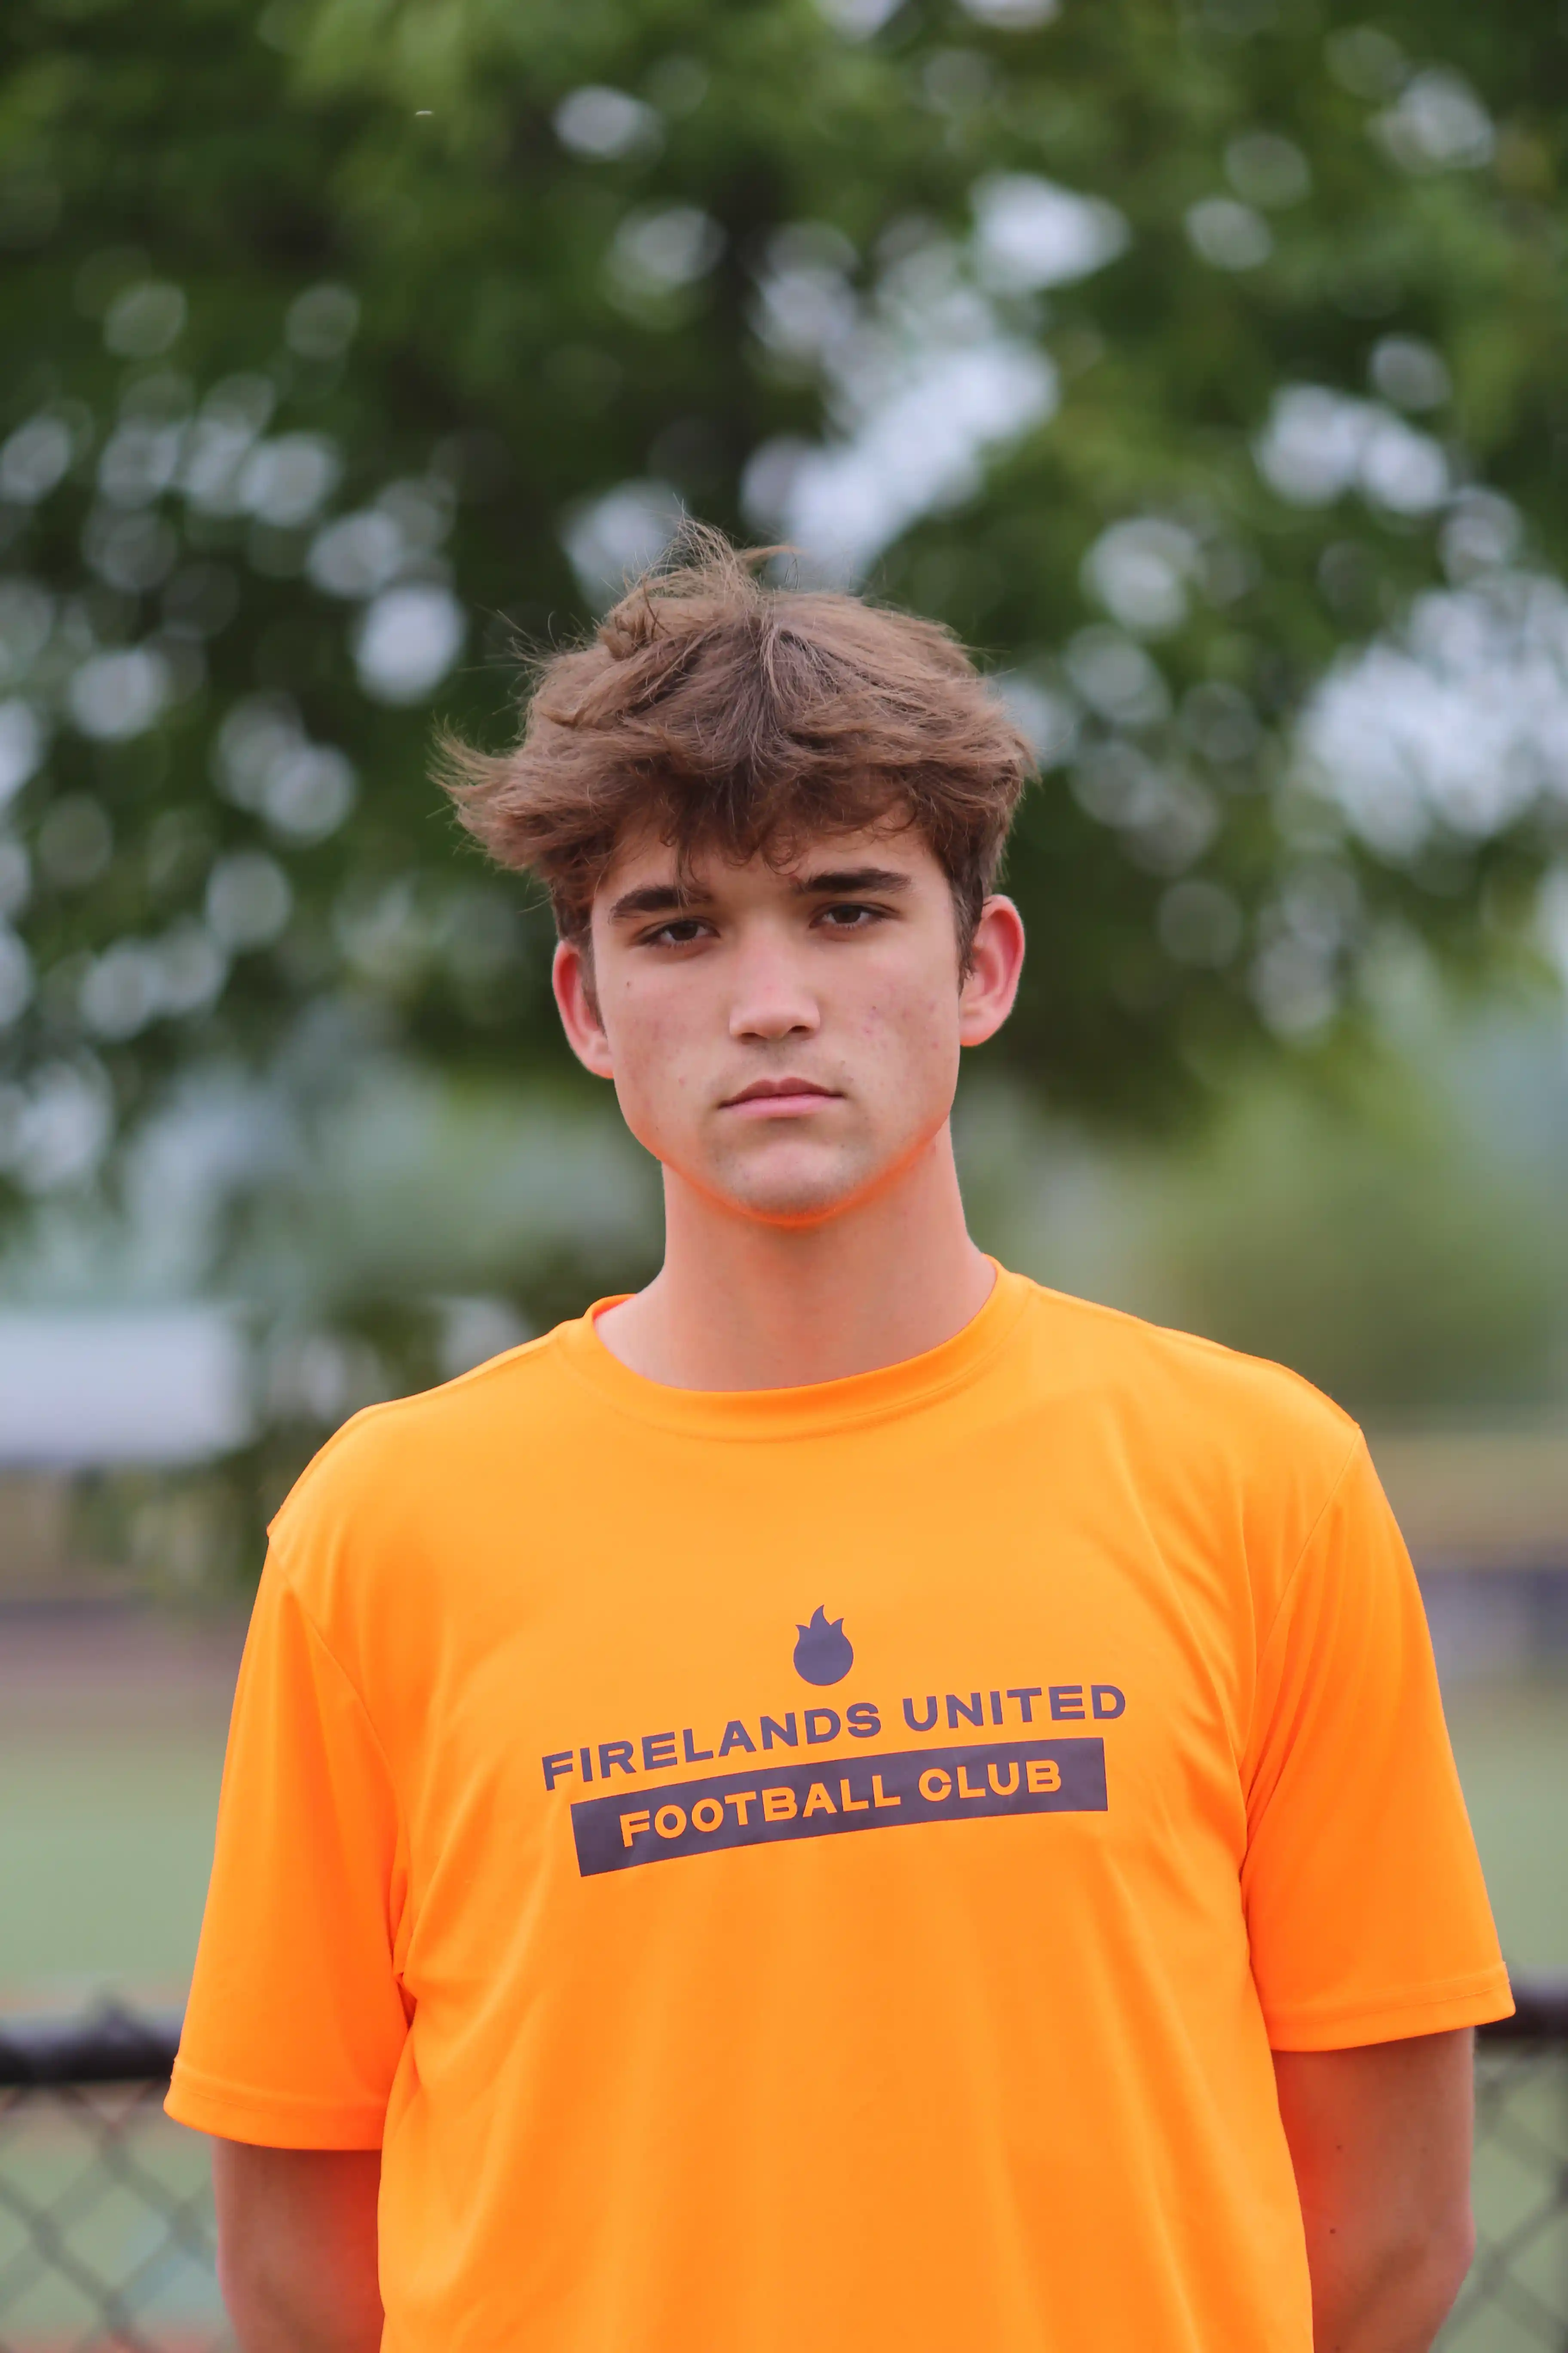
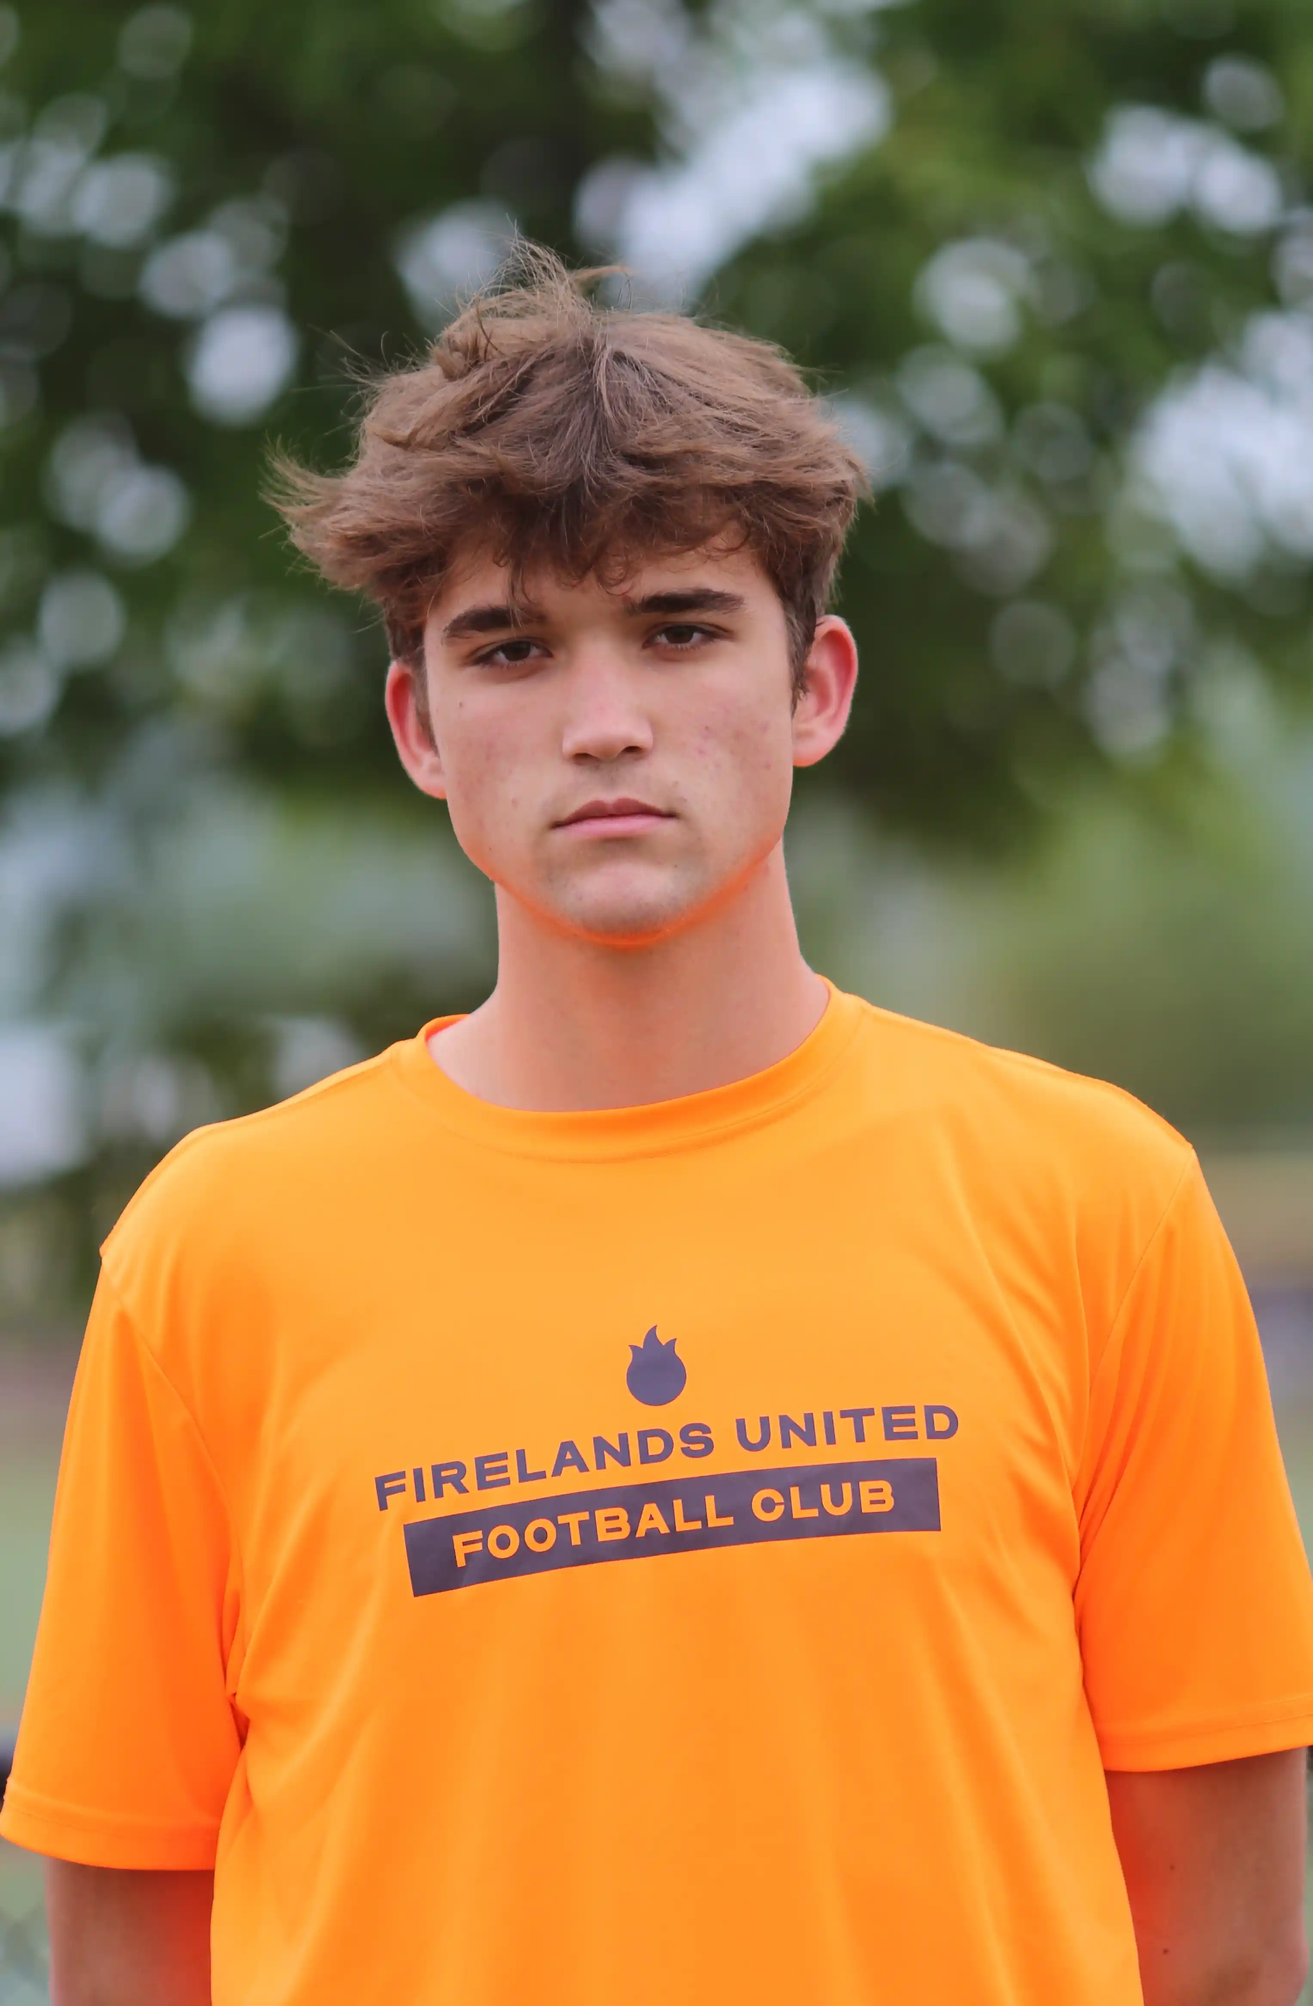
Image update

diff --git a/mens-team-history/index.html b/mens-team-history/index.html
@@ -438,7 +438,7 @@
         </article>
 
         <article class="history-player">
-          <div class="history-avatar avatar-photo"><img src="/img/2025-headshots/jon-slay.webp" alt="Jon Slay headshot" class="tight-crop" loading="lazy"></div>
+          <div class="history-avatar avatar-photo"><img src="/img/2025-headshots/jon-slay.webp" alt="Jon Slay headshot" loading="lazy"></div>
           <div>
             <h3 class="history-name">Jon Slay</h3>
             <p class="history-subtext">#9 | ST/LW</p>
@@ -454,7 +454,7 @@
         </article>
 
         <article class="history-player">
-          <div class="history-avatar avatar-photo"><img src="/img/2025-headshots/reggie-johnson.webp" alt="Reggie Johnson headshot" class="tight-crop" loading="lazy"></div>
+          <div class="history-avatar avatar-photo"><img src="/img/2025-headshots/reggie-johnson.webp" alt="Reggie Johnson headshot" loading="lazy"></div>
           <div>
             <h3 class="history-name">Reggie Johnson</h3>
             <p class="history-subtext">#2 | ST/RW</p>
@@ -462,7 +462,7 @@
         </article>
 
         <article class="history-player">
-          <div class="history-avatar avatar-photo"><img src="/img/2025-headshots/alex-davidson.webp" alt="Alex Davidson headshot" class="tight-crop" loading="lazy"></div>
+          <div class="history-avatar avatar-photo"><img src="/img/2025-headshots/alex-davidson.webp" alt="Alex Davidson headshot" loading="lazy"></div>
           <div>
             <h3 class="history-name">Alex Davidson</h3>
             <p class="history-subtext">#18 | CAM</p>
@@ -470,7 +470,7 @@
         </article>
 
         <article class="history-player">
-          <div class="history-avatar avatar-photo"><img src="/img/2025-headshots/blake-kubasak.webp" alt="Blake Kubasak headshot" class="tight-crop" loading="lazy"></div>
+          <div class="history-avatar avatar-photo"><img src="/img/2025-headshots/blake-kubasak.webp" alt="Blake Kubasak headshot" loading="lazy"></div>
           <div>
             <h3 class="history-name">Blake Kubasak</h3>
             <p class="history-subtext">#8 | RWB</p>
@@ -518,7 +518,7 @@
         </article>
 
         <article class="history-player">
-          <div class="history-avatar avatar-photo"><img src="/img/2025-headshots/noah-clapsaddle.webp" alt="Noah Clapsaddle headshot" class="tight-crop" loading="lazy"></div>
+          <div class="history-avatar avatar-photo"><img src="/img/2025-headshots/noah-clapsaddle.webp" alt="Noah Clapsaddle headshot" loading="lazy"></div>
           <div>
             <h3 class="history-name">Noah Clapsaddle</h3>
             <p class="history-subtext">#16 | LB/RB</p>
@@ -526,7 +526,7 @@
         </article>
 
         <article class="history-player">
-          <div class="history-avatar avatar-photo"><img src="/img/2025-headshots/brock-harman.webp" alt="Brock Harman headshot" class="tight-crop" loading="lazy"></div>
+          <div class="history-avatar avatar-photo"><img src="/img/2025-headshots/brock-harman.webp" alt="Brock Harman headshot" loading="lazy"></div>
           <div>
             <h3 class="history-name">Brock Harman</h3>
             <p class="history-subtext">#27 | RW</p>
@@ -582,7 +582,7 @@
         </article>
 
         <article class="history-player">
-          <div class="history-avatar avatar-photo"><img src="/img/2025-headshots/bryan-gerber.webp" alt="Bryan Gerber headshot" class="tight-crop" loading="lazy"></div>
+          <div class="history-avatar avatar-photo"><img src="/img/2025-headshots/bryan-gerber.webp" alt="Bryan Gerber headshot" loading="lazy"></div>
           <div>
             <h3 class="history-name">Bryan Gerber</h3>
             <p class="history-subtext">#14 | CB</p>
@@ -590,7 +590,7 @@
         </article>
 
         <article class="history-player">
-          <div class="history-avatar avatar-photo"><img src="/img/2025-headshots/phil-kirimi.webp" alt="Phil Kirimi headshot" class="tight-crop" loading="lazy"></div>
+          <div class="history-avatar avatar-photo"><img src="/img/2025-headshots/phil-kirimi.webp" alt="Phil Kirimi headshot" loading="lazy"></div>
           <div>
             <h3 class="history-name">Phil Kirimi</h3>
             <p class="history-subtext">#0 | CB</p>

diff --git a/style.css b/style.css
@@ -1456,25 +1456,6 @@ body.presskit-page .content-section:nth-of-type(5) {
   object-position: center 24%;
 }
 
-/* Per-player crop tweaks for photos that frame too wide */
-.history-avatar.avatar-photo img[alt="Jon Slay headshot"],
-.history-avatar.avatar-photo img[alt="Reggie Johnson headshot"],
-.history-avatar.avatar-photo img[alt="Alex Davidson headshot"],
-.history-avatar.avatar-photo img[alt="Blake Kubasak headshot"],
-.history-avatar.avatar-photo img[alt="Noah Clapsaddle headshot"],
-.history-avatar.avatar-photo img[alt="Brock Harman headshot"],
-.history-avatar.avatar-photo img[alt="Bryan Gerber headshot"],
-.history-avatar.avatar-photo img[alt="Phil Kirimi headshot"] {
-  transform: scale(1.18);
-  transform-origin: center 28%;
-}
-
-/* Force tighter framing for specific 2025 headshots that still read too wide */
-.history-avatar.avatar-photo img.tight-crop {
-  transform: scale(1.32) translateY(2%);
-  transform-origin: center 24%;
-}
-
 .history-name {
   color: #fff;
   font-size: 1.5rem;
